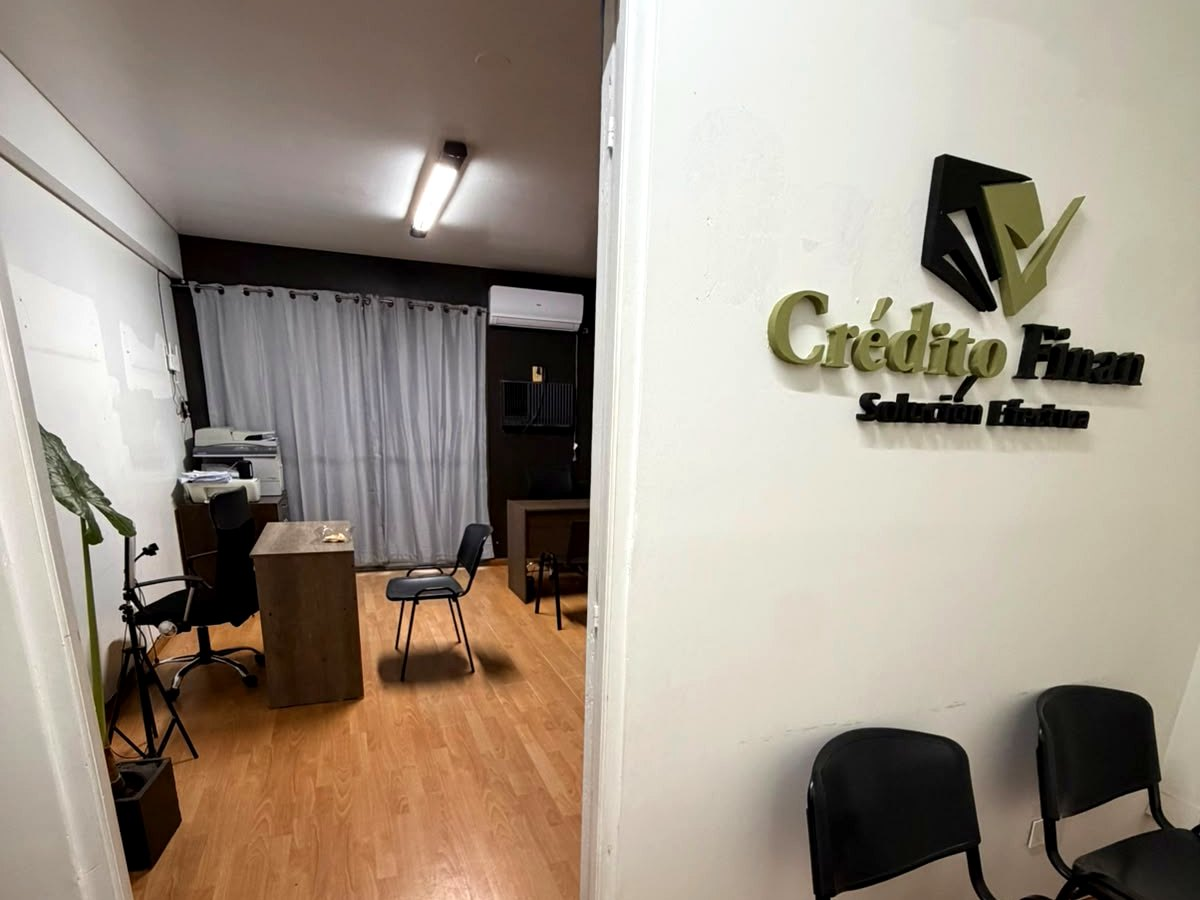
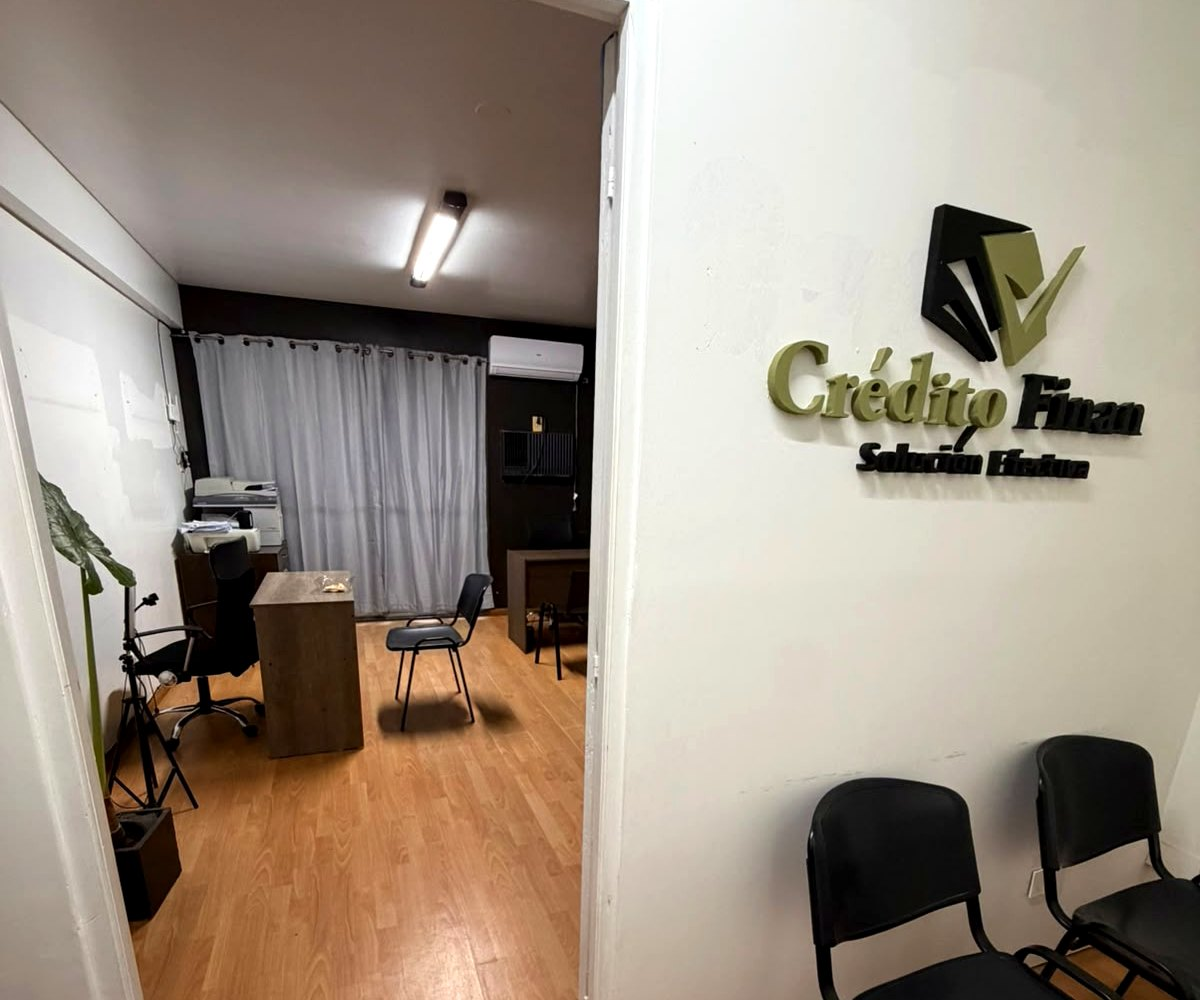
fix: el cartel de la marca se veia cortado en la foto de la oficina
El parallax de esa foto tenia scale:1.18. Eso agrandaba la imagen un 18% y el
marco le recortaba ~9% por cada costado — se comia la "n" de "Credito Finan",
que es justo lo que esa seccion tiene que probar. El recorte de la foto estaba
bien; el zoom del parallax se lo comia.

Arreglo sin perder el movimiento:
- La foto pasa a 1200x1000, MAS ALTA que el marco 4:3. El sobrante vertical es
  el que usa el parallax; a lo ancho la imagen calza exacto.
- Se saca el scale del tween y el recorrido baja a yPercent -4/+4, que entra
  holgado en el sobrante disponible.

Verificado en los tres puntos del recorrido (inicio, medio, final):
recorte lateral = 0px en todos. El cartel se lee completo siempre.

diff --git a/index.html b/index.html
@@ -642,11 +642,16 @@ footer{
     });
   });
 
-  /* Foto de la oficina: parallax + zoom sutil dentro de su marco */
+  /* Foto de la oficina: parallax vertical, SIN zoom.
+     El scale:1.18 anterior agrandaba la foto un 18% y el marco le cortaba ~9%
+     por cada costado — se comía la "n" del cartel "Crédito Finan", que es
+     justo lo que esa sección tiene que probar.
+     Ahora la foto es 1200x1000 (más alta que el marco 4:3): el sobrante
+     vertical es el que usa el parallax, y a lo ancho calza exacto. */
   var ofi = document.querySelector('.oficina-foto img');
   if(ofi){
-    gsap.fromTo(ofi, {yPercent:-7, scale:1.18}, {
-      yPercent:7, scale:1.18, ease:'none',
+    gsap.fromTo(ofi, {yPercent:-4}, {
+      yPercent:4, ease:'none',
       scrollTrigger:{ trigger:'.oficina', start:'top bottom', end:'bottom top', scrub:0.6 }
     });
   }
